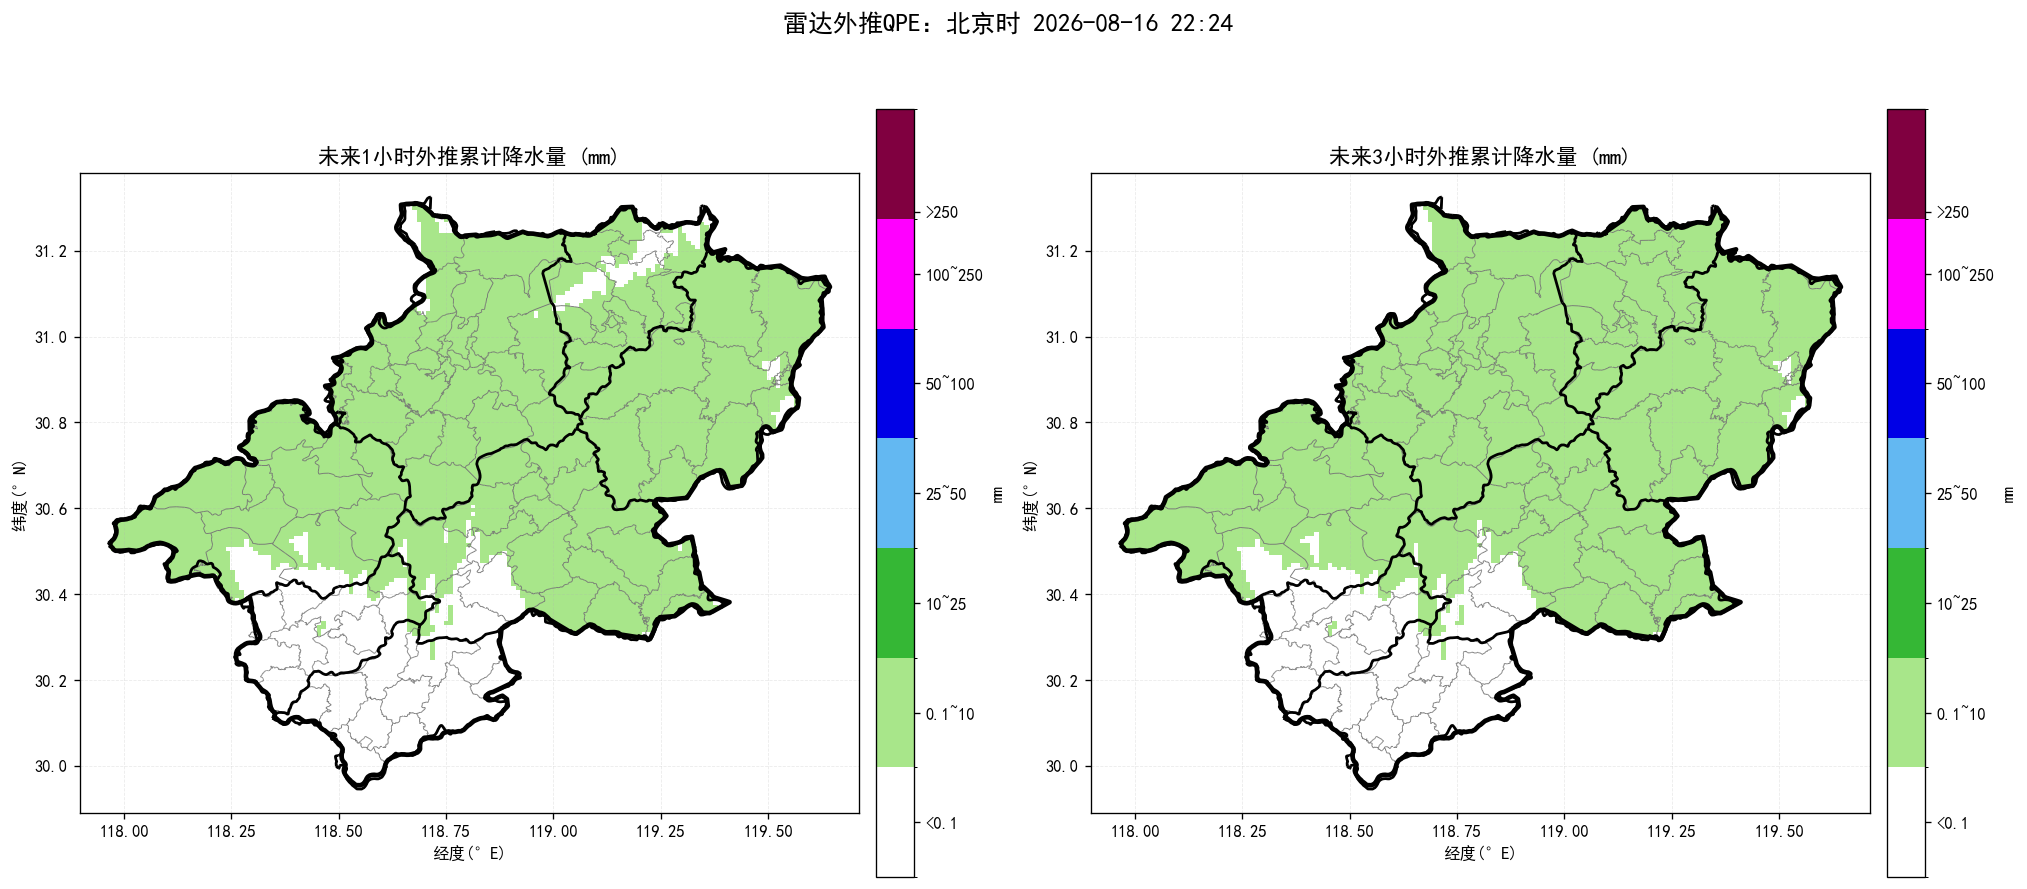
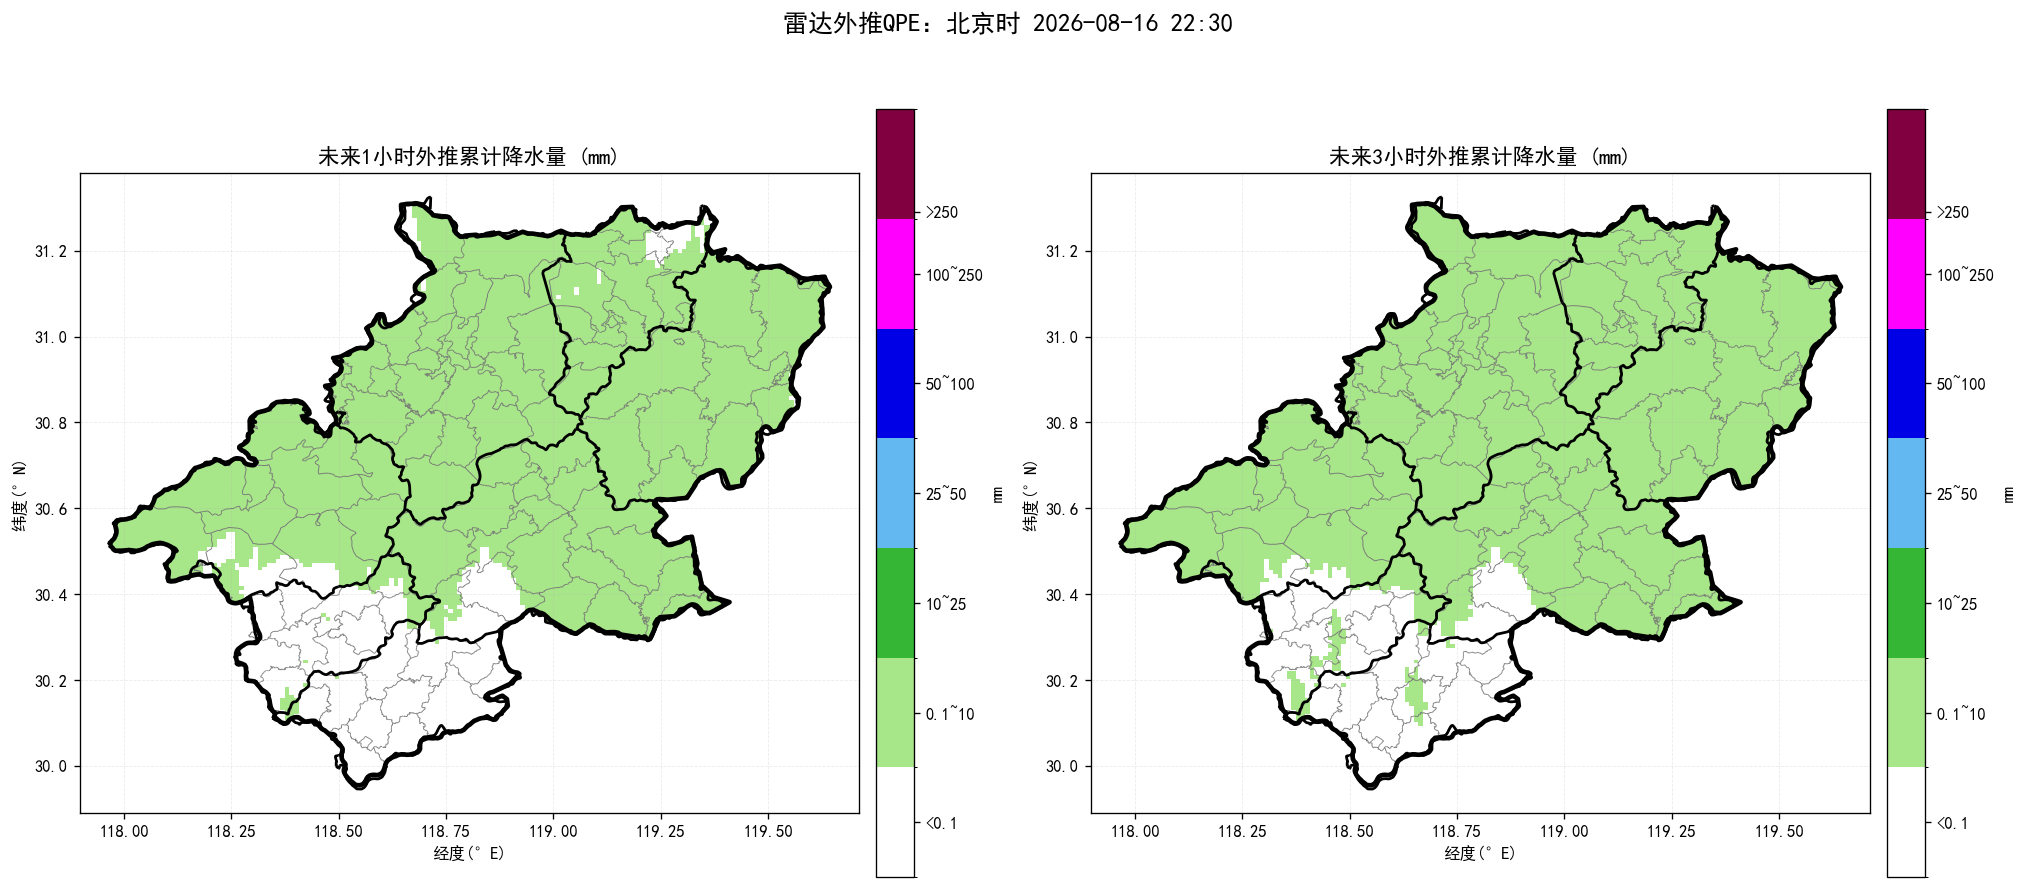
update nowcast products

diff --git a/index.html b/index.html
@@ -15,11 +15,11 @@ img.product{display:block;width:100%;height:auto;margin:10px auto 26px;border:1p
 .footer{font-size:13px;color:#777;text-align:center;margin-top:30px}
 @media(max-width:700px){.sheet{margin:0;padding:18px 15px}.alert-title{font-size:22px}.county-line{font-size:17px}.prob{font-size:18px}}
 </style></head><body><main class="sheet">
-<div class="time">起报时间：北京时 2026-08-16 22:24</div>
+<div class="time">起报时间：北京时 2026-08-16 22:30</div>
 <div class="alert-title">未来一小时降水量超过 20 毫米的乡镇：</div><div class="county-line">无</div>
 <div class="alert-title">未来三小时降水量超过 50 毫米的乡镇：</div><div class="county-line">无</div>
 <div class="alert-title">未来三小时雷暴大风（组合反射率 > 55 dBZ）的乡镇：</div><div class="county-line">无</div>
-<div class="prob">最大降水量概率预估：宣城市范围内未来三小时降水偏小，最大预报约5.0毫米，暂不进行50/80/100毫米概率预估。</div>
+<div class="prob">最大降水量概率预估：宣城市范围内未来三小时降水偏小，最大预报约9.7毫米，暂不进行50/80/100毫米概率预估。</div>
 <div class="section-title">未来降水预报图：</div><img class="product" src="短临降水预报.png" alt="未来降水预报图">
 <div class="section-title">未来三小时组合反射率图：</div><img class="product" src="未来3小时组合反射率.png" alt="未来三小时组合反射率图">
 <div class="section-title">未来三小时雷暴大风图：</div><img class="product" src="未来3小时雷暴大风.png" alt="未来三小时雷暴大风图">
